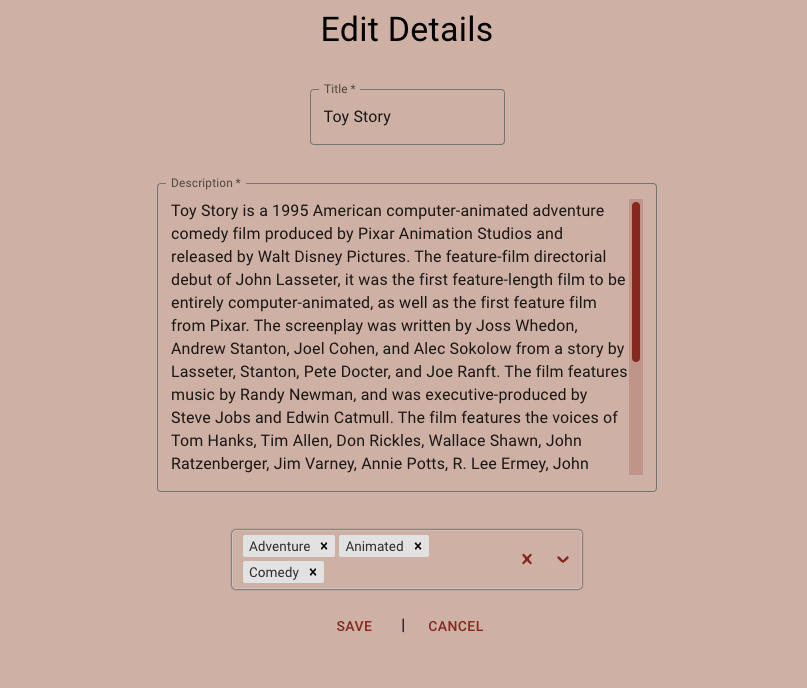
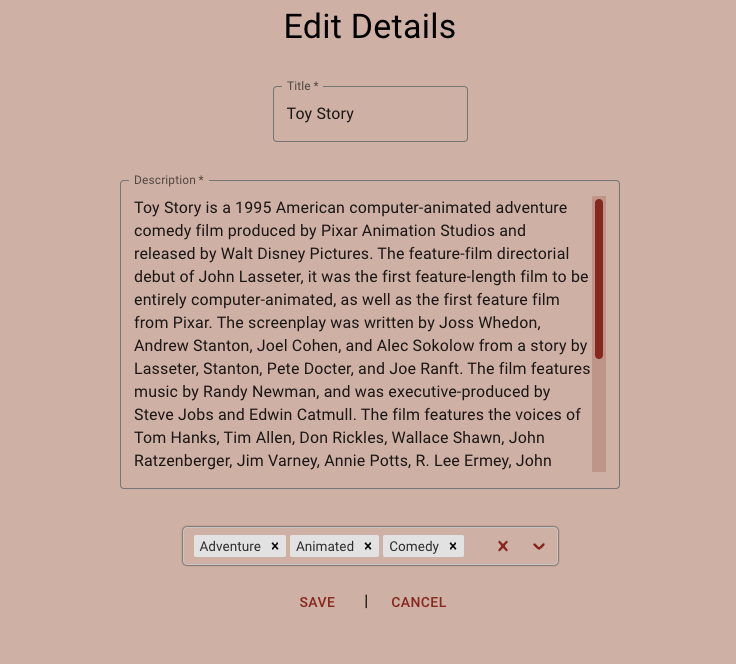
updated readme previews (again)

diff --git a/src/components/EditDetails/EditDetails.jsx b/src/components/EditDetails/EditDetails.jsx
@@ -143,7 +143,7 @@ function EditDetails() {
                     <br /><br /><br />
 
                     {/* Select Genres */}
-                    <div style={{ width: '350px', margin: 'auto' }}>
+                    <div style={{ width: '375px', margin: 'auto' }}>
                         <Select
                             required
                             isMulti
